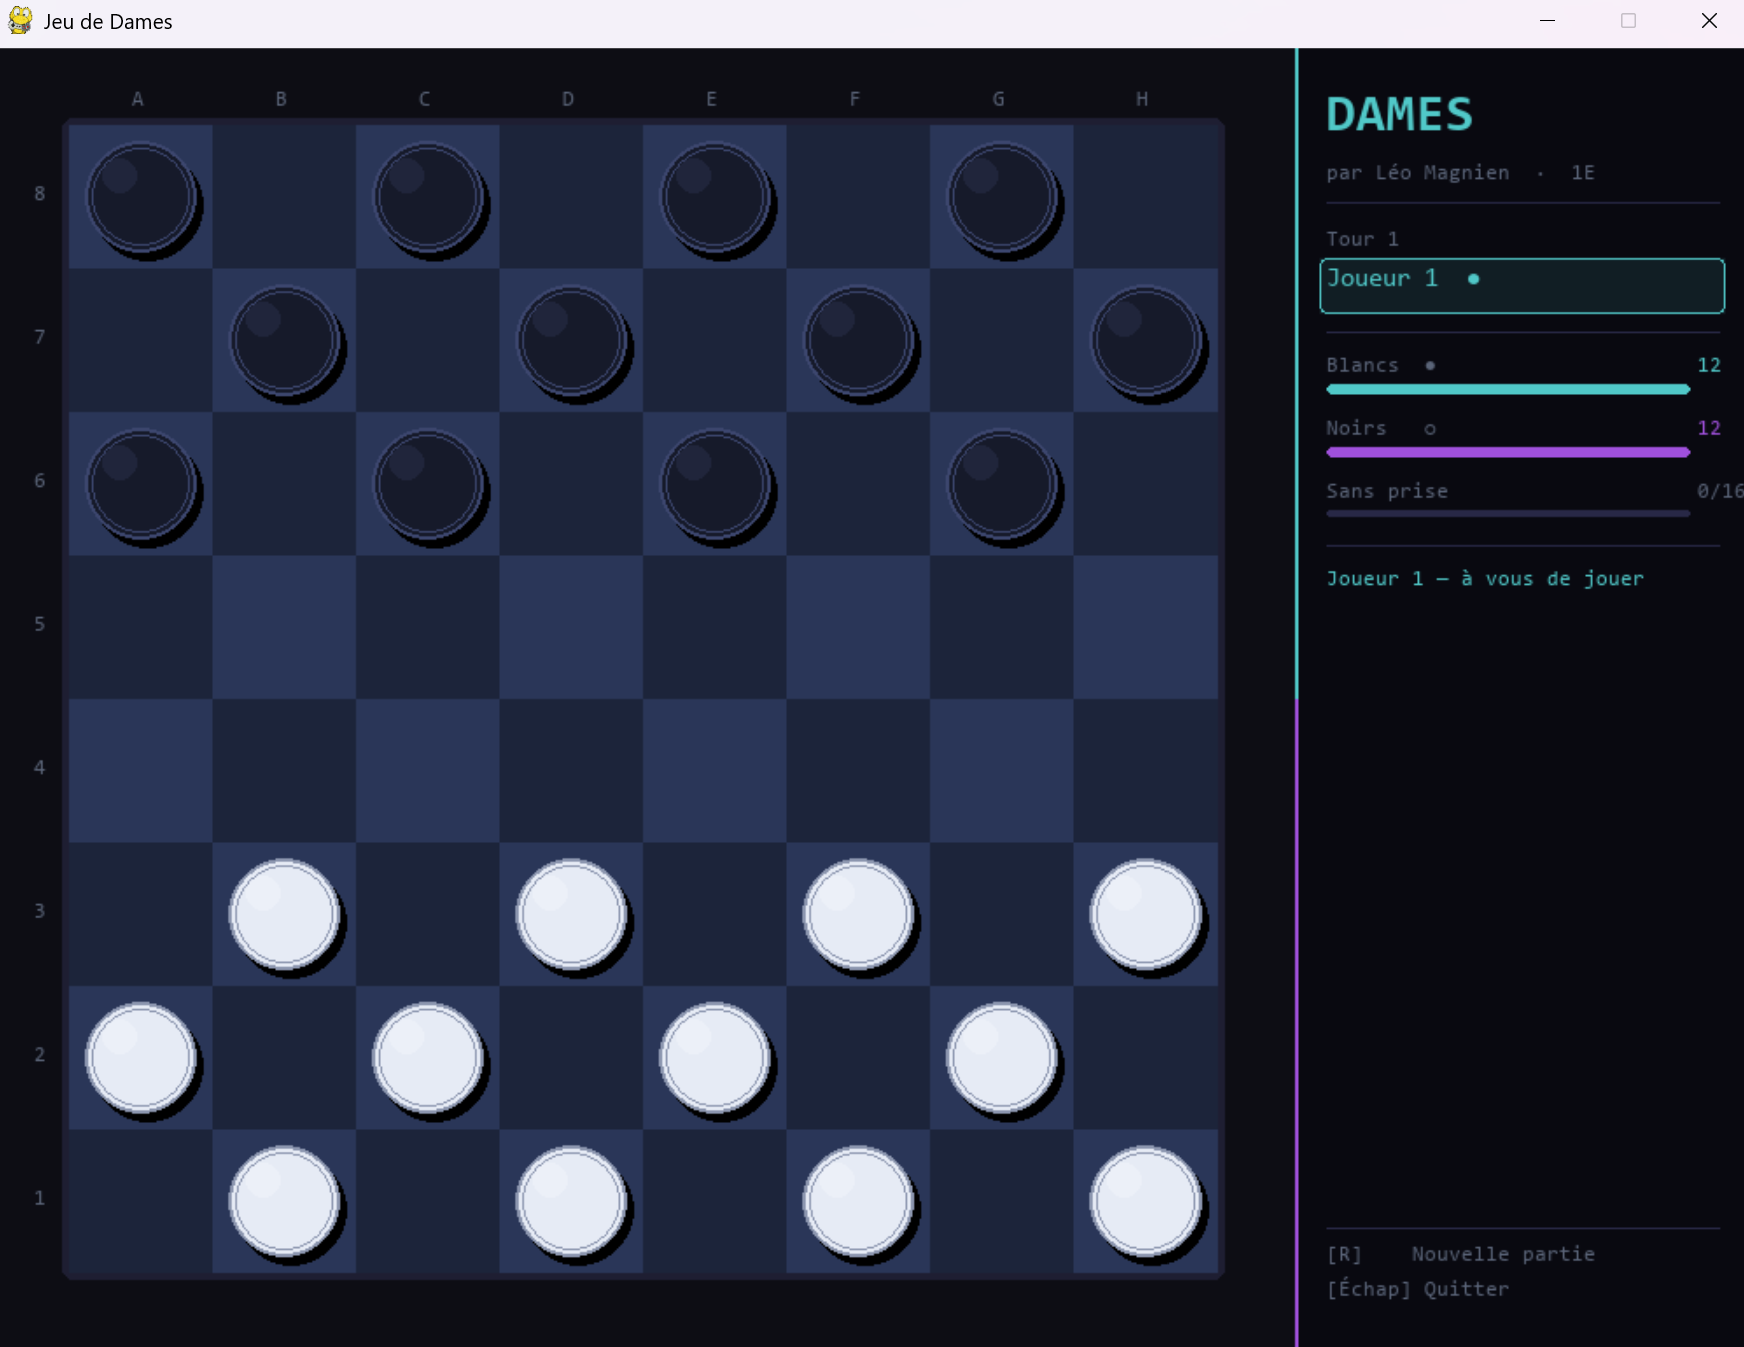
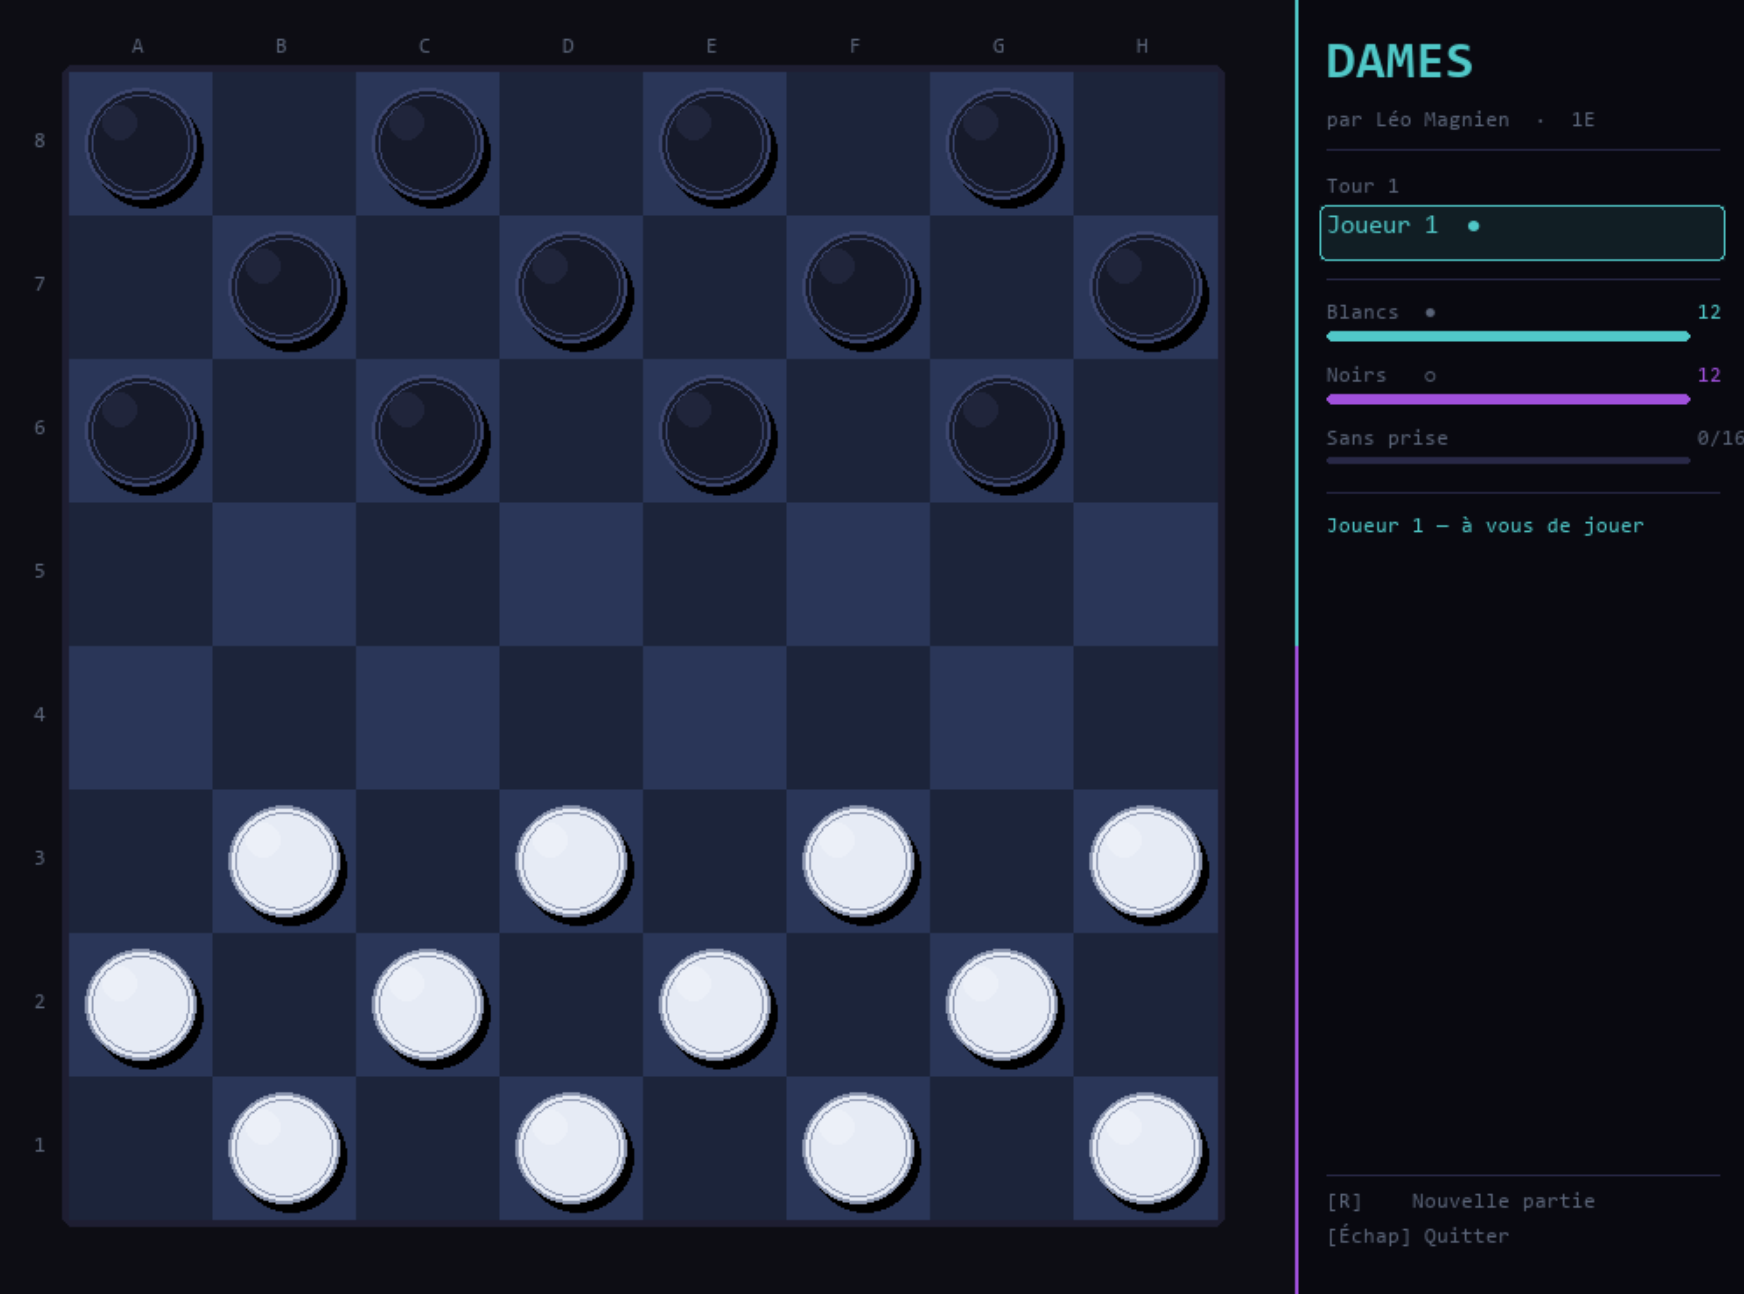
adding a new project

diff --git a/index.html b/index.html
@@ -25,10 +25,13 @@
             href="./assets/pp/pp.png"
         />
 
-        <link rel="preconnect" href="https://fonts.googleapis.com">
-        <link rel="preconnect" href="https://fonts.gstatic.com" crossorigin>
+        <link rel="preconnect" href="https://fonts.googleapis.com" />
+        <link rel="preconnect" href="https://fonts.gstatic.com" crossorigin />
 
-        <link href="https://fonts.googleapis.com/css2?family=Poppins:wght@300;400;600;700&display=swap" rel="stylesheet">
+        <link
+            href="https://fonts.googleapis.com/css2?family=Poppins:wght@300;400;600;700&display=swap"
+            rel="stylesheet"
+        />
         <link
             rel="stylesheet"
             href="https://cdnjs.cloudflare.com/ajax/libs/font-awesome/6.5.1/css/all.min.css"
@@ -244,6 +247,75 @@
             </div>
 
             <div class="projets">
+                <style>
+                    .projet_clair .description_au_survol p {
+                        color: black;
+                    }
+
+                    .projet_clair .modal_btn {
+                        background: rgb(44, 42, 42);
+                    }
+
+                    .projet_clair .modal_btn:hover {
+                        background: black;
+                    }
+                </style>
+
+                <div class="bloc_projet reveal">
+                    <div class="bloc_image description_au_survol">
+                        <div class="fond_image">
+                            <img
+                                src="./assets/web_portfolio/home.png"
+                                alt="Portfolio web"
+                            />
+                        </div>
+
+                        <p>
+                            J'ai développé récemment ce site web 'Portfolio'
+                            afin de me présenter, tout en montrant ma capacité à
+                            créer un site web moderne et fiable.
+                        </p>
+                    </div>
+
+                    <h5>Ce site web évidement !</h5>
+                    <p>Création web - Portfolio</p>
+                    <a href="#home">Pas vraiment besoin d'image :)</a>
+                </div>
+                <div class="bloc_projet reveal">
+                    <div class="bloc_image description_au_survol">
+                        <div class="fond_image">
+                            <img class="black"
+                                src="./assets/python_project/presentation_queens_game.png"
+                                alt="Jeu de Dames"
+                                style="background-color: black;"
+                            />
+                        </div>
+
+                        <p>
+                            J'ai développé en Python un jeu de Dames, qui inclue
+                            asboluement toutes les règles du jeu. Je l'ai
+                            d'abord codé sans interface graphique, donc en ligne
+                            de commande, puis j'ai ajouté l'interface que l'on
+                            voit ici.
+                        </p>
+                    </div>
+
+                    <h5>Jeu de Dames</h5>
+                    <p>Projet programmation jeu vidéo</p>
+                    <a
+                        class="open_modal"
+                        data-images="./assets/python_project/presentation_queens_game.png|Plateau de jeu avant de commencer une partie (+ on voit infos autour),
+                    ./assets/python_project/moves.png|Le joueur voit les déplacements possibles au clic de la pièce,
+                              ./assets/python_project/forced_to_take.png|Le joueur est forcé à prendre la pièce adverse; c'est la règle !,
+                              ./assets/python_project/multiple_take.png|Le joueur peut prendre plusieurs pièces en 1 tour,
+                              ./assets/python_project/queen.png|Le joueur peut obtenir une dame en allant sur la dernière rangée,
+                              ./assets/python_project/queen's_moves.png|La dame est plutôt libre dans ses déplacements,
+                              ./assets/python_project/moves_during_multiple_holds.png|Le joueur peut prendre une pièce adverse avec sa dame,
+                              ./assets/python_project/victory.png|Le joueur noir a gagné !,
+                              ./assets/python_project/draw.png|En 16 coups d'affilé; personne n'a prit une pièce; donc égalité !"
+                        >Voir plus d'images</a
+                    >
+                </div>
                 <div class="bloc_projet reveal projet_clair">
                     <div class="bloc_image description_au_survol">
                         <div class="fond_image">
@@ -272,60 +344,13 @@
                         >Voir plus d'images
                     </a>
                 </div>
-                <style>
-                    .projet_clair .description_au_survol p {
-                        color: black;
-                    }
-
-                    .projet_clair .modal_btn {
-                        background: rgb(44, 42, 42);
-                    }
-
-                    .projet_clair .modal_btn:hover {
-                        background: black;
-                    }
-                </style>
-
-                <div class="bloc_projet reveal">
-                    <div class="bloc_image description_au_survol">
-                        <div class="fond_image">
-                            <img
-                                src="./assets/python_project/presentation_queens_game.png"
-                                alt="Jeu de Dames"
-                            />
-                        </div>
-
-                        <p>
-                            J'ai développé en Python un jeu de Dames, qui inclue
-                            asboluement toutes les règles du jeu. Je l'ai
-                            d'abord codé sans interface graphique, donc en ligne
-                            de commande, puis j'ai ajouté l'interface que l'on
-                            voit ici.
-                        </p>
-                    </div>
-
-                    <h5>Jeu de Dames</h5>
-                    <p>Projet programmation jeu vidéo</p>
-                    <a
-                        class="open_modal"
-                        data-images="./assets/python_project/presentation_queens_game.png|Plateau de jeu avant de commencer une partie (+ on voit infos autour),
-                              ./assets/python_project/moves.png|Le joueur voit les déplacements possibles au clic de la pièce,
-                              ./assets/python_project/forced_to_take.png|Le joueur est forcé à prendre la pièce adverse; c'est la règle !,
-                              ./assets/python_project/multiple_take.png|Le joueur peut prendre plusieurs pièces en 1 tour,
-                              ./assets/python_project/queen.png|Le joueur peut obtenir une dame en allant sur la dernière rangée,
-                              ./assets/python_project/queen's_moves.png|La dame est plutôt libre dans ses déplacements,
-                              ./assets/python_project/moves_during_multiple_holds.png|Le joueur peut prendre une pièce adverse avec sa dame,
-                              ./assets/python_project/victory.png|Le joueur noir a gagné !,
-                              ./assets/python_project/draw.png|En 16 coups d'affilé; personne n'a prit une pièce; donc égalité !"
-                        >Voir plus d'images</a
-                    >
-                </div>
                 <div class="bloc_projet reveal">
                     <div class="bloc_image description_au_survol">
                         <div class="fond_image">
                             <img
                                 src="./assets/car_project/car_presentation.jpg"
                                 alt=""
+                                style="object-fit: fill;"
                             />
                         </div>
 

diff --git a/css/hero_banner.css b/css/hero_banner.css
@@ -1,5 +1,4 @@
 .hero_banner {
-    border: green 3px solid;
     display: flex;
     flex-direction: column;
     justify-content: center;
